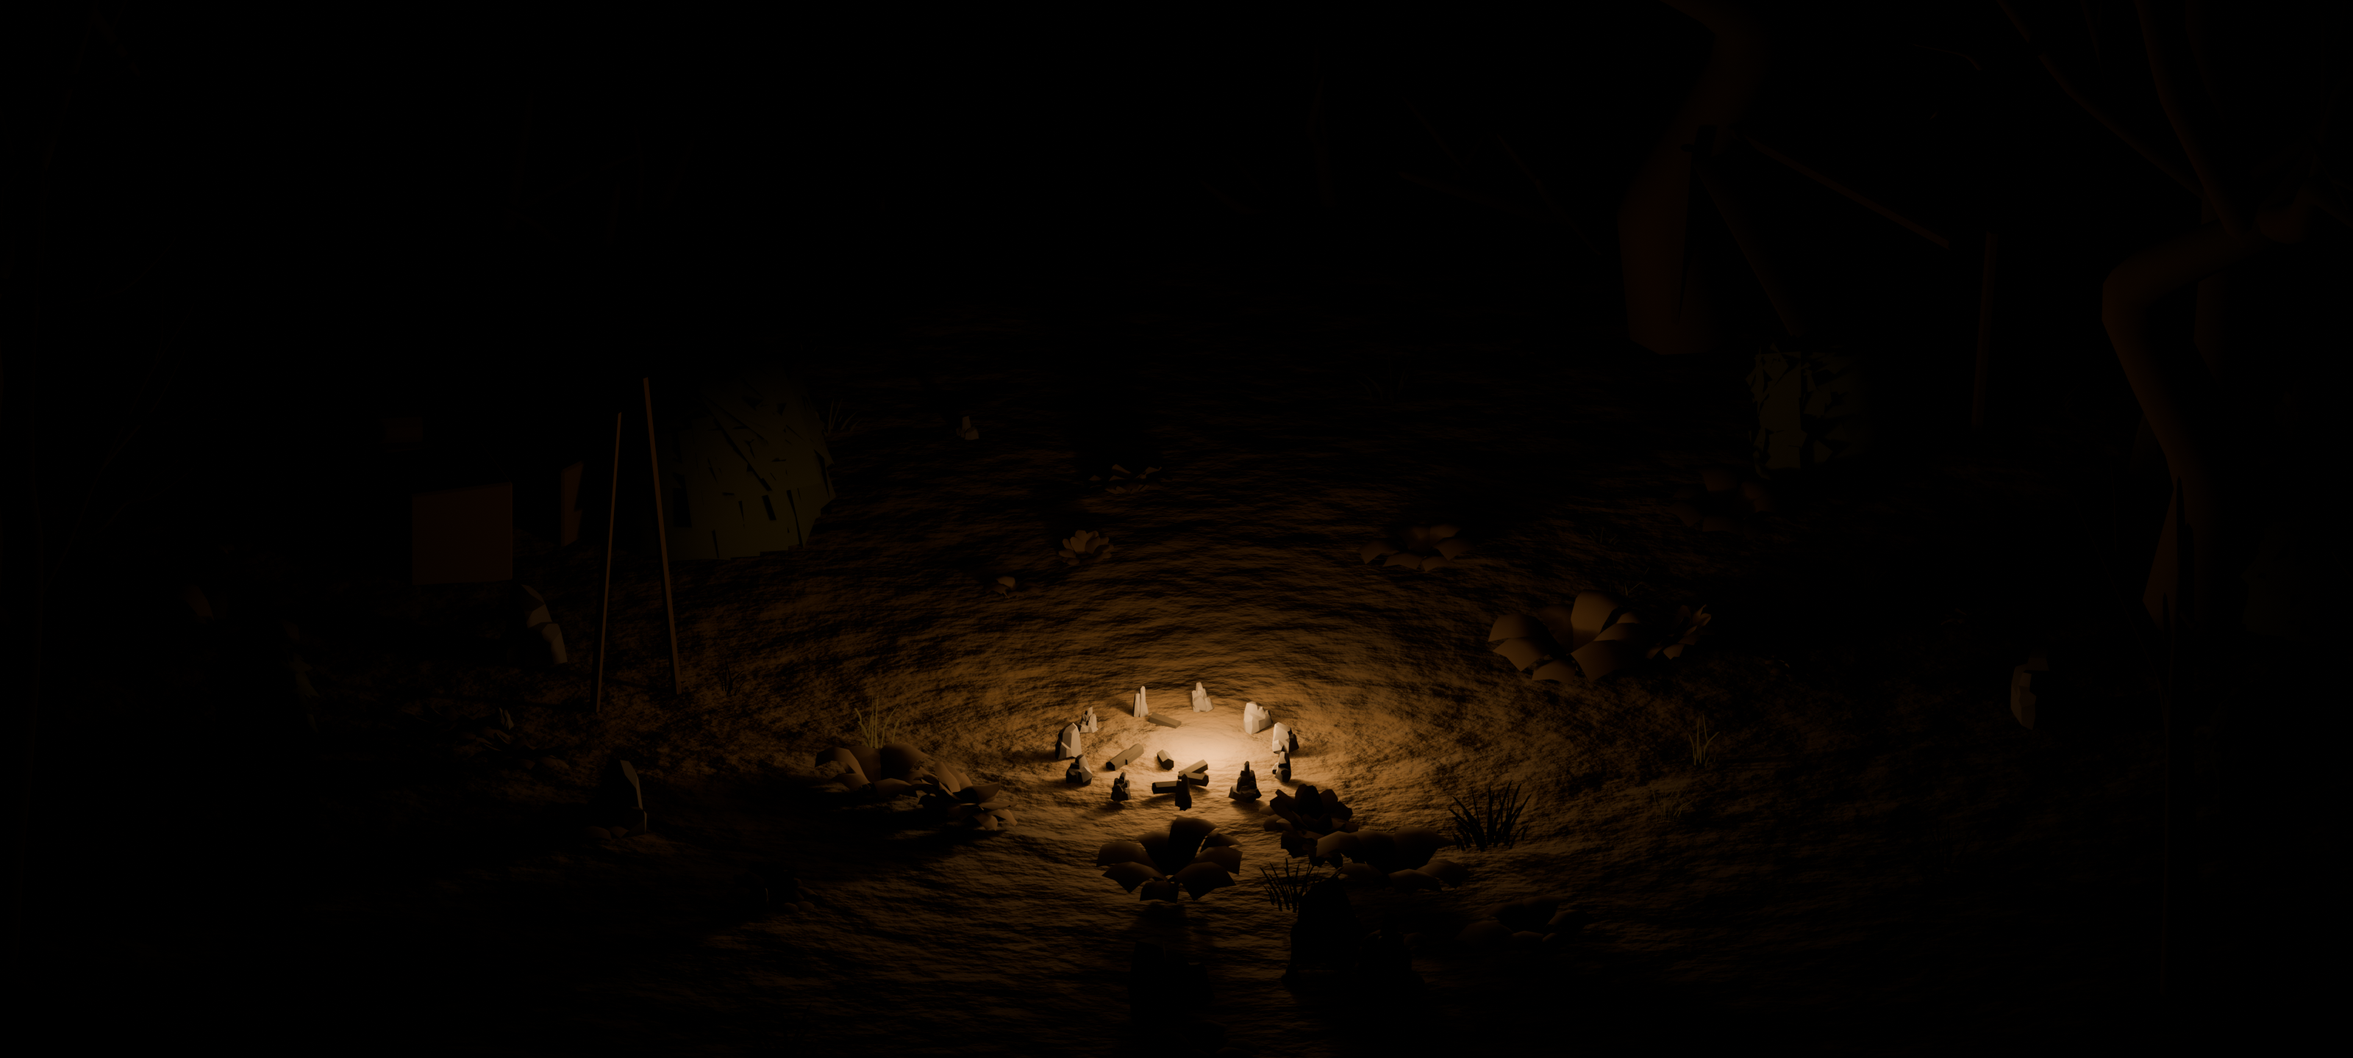
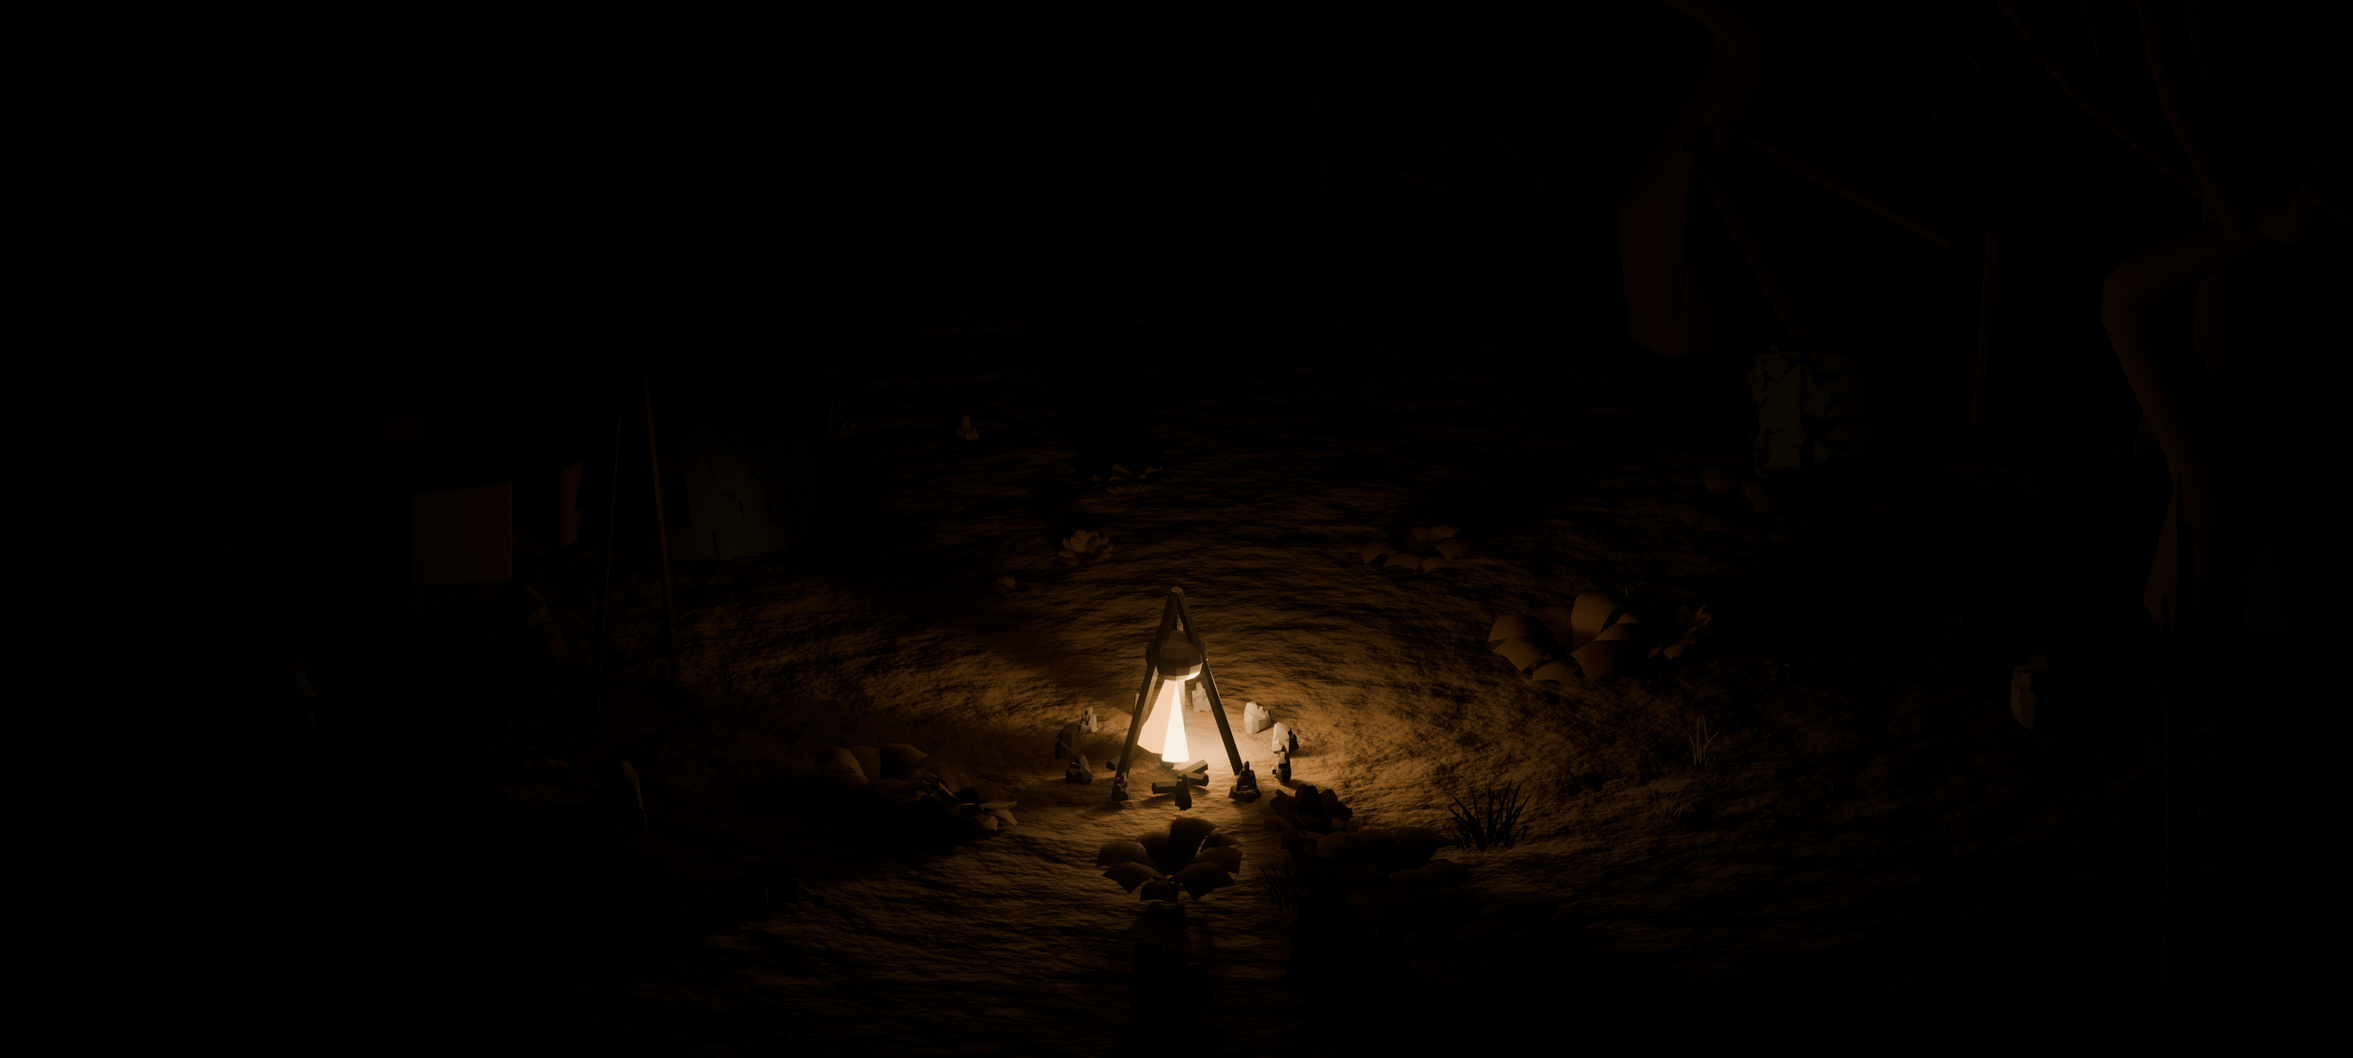
A moon over the camp, a fire in it, and the moonlight that was never drawn
**The bug first, because it explains the other two thirds of this commit.**
`lighter` adds alpha as well as colour, and the firelight plates are opaque
PNGs — so drawing them onto the canvas made the canvas opaque, black wherever
the fire does not reach, and the `background-image` underneath was hidden
completely. The camp has been lit by nothing but firelight since the plates
landed, with the sky, the crest and the whole treeline behind an opaque black
sheet. It looked exactly like a scene that was simply too dark, which is why it
was diagnosed twice as one.

The base plate is drawn onto the canvas now, and the plates added on top of it.
The CSS background stays as the first thing on screen while they decode; after
that the canvas is the picture. Stars move to *after* the set for the same
reason — laid down first they were painted over by the sky they belong to.

**The fire is rendered.** There is one flame per firelight plate and no two are
the same shape, so the cross-fade that already swings the light now plays the
fire itself: the tongues rise and fall because plate 2 is fading up while plate
1 fades down, on one clock, from one set of weights. The flame and the light it
casts cannot fall out of step, because they are the same render. `drawCampfire`
and `drawCookpot` are skipped for a camp that has plates — flat quadratic
tongues and a black outline over a lit set were the last of that mismatch — and
[…]

Changed region(s): [[0.3125, 0.5938, 0.5625, 0.875]]

diff --git a/js/ui.js b/js/ui.js
@@ -4,7 +4,7 @@ import { heroStats } from './entities.js';
 import { levelFor, levelAt, LEVELS } from './world.js';
 import { SKILLS, skillById, PERKS, MAX_SKILLS, iconOpts, TIER_BANDS } from './perks.js';
 import * as Atlas from './atlas.js';
-import { heroKit, drawActor, drawShadow, drawCampfire,
+import { heroKit, drawActor, drawCampfire,
          drawCookpot, kitFor } from './sprites.js';
 import { SLOTS, slotByKey, attrText, bandName, itemScore, itemArt } from './items.js';
 import * as Audio from './audio.js';
@@ -675,8 +675,20 @@ const FIRE_PLATES = 3;
 let firelight = null;
 
 function loadFirelight(src) {
-  firelight = { stem: src.slice(0, -4), imgs: [], scaled: null, key: '' };
+  firelight = { stem: src.slice(0, -4), base: null, imgs: [], scaled: null, key: '' };
   const mine = firelight;
+  // **The base plate is loaded here too, and drawn on the canvas rather than
+  // left to CSS.** It has to be: the plates are opaque PNGs and `lighter` adds
+  // *alpha* as well as colour, so drawing them over a transparent canvas makes
+  // the canvas opaque — black wherever the fire does not reach — and the
+  // background-image underneath is hidden completely. That bug shipped a camp
+  // lit by nothing but firelight, with the moon, the sky and the whole treeline
+  // sitting behind an opaque black sheet, and it looked exactly like a scene
+  // that was simply too dark. The CSS background stays as the first thing on
+  // screen while these decode; from then on the canvas is the picture.
+  const base = new Image();
+  base.onload = () => { if (firelight === mine) mine.base = base; };
+  base.src = src;
   for (let i = 0; i < FIRE_PLATES; i++) {
     const img = new Image();
     // A missing plate is not an error. A camp set may be a single image — every
@@ -697,8 +709,9 @@ function loadFirelight(src) {
 function scaleFirelight(W, H) {
   const key = `${Math.round(W)}x${Math.round(H)}`;
   if (firelight.key === key && firelight.scaled) return true;
+  if (!firelight.base) return false;
   if (firelight.imgs.length < FIRE_PLATES || firelight.imgs.some((i) => !i)) return false;
-  firelight.scaled = firelight.imgs.map((img) => {
+  const fit = (img) => {
     const c = document.createElement('canvas');
     c.width = Math.max(1, Math.round(W));
     c.height = Math.max(1, Math.round(H));
@@ -708,7 +721,9 @@ function scaleFirelight(W, H) {
     const dw = H * (img.naturalWidth / img.naturalHeight);
     c.getContext('2d').drawImage(img, (W - dw) / 2, 0, dw, H);
     return c;
-  });
+  };
+  firelight.scaled = firelight.imgs.map(fit);
+  firelight.scaledBase = fit(firelight.base);
   firelight.key = key;
   return true;
 }
@@ -734,6 +749,8 @@ function paintFirelight(ctx, W, H) {
   // eye against it at the fire's edge.
   const amp = 1.28 + 0.15 * Math.sin(campT * 7.3) + 0.07 * Math.sin(campT * 11.9);
   ctx.save();
+  // The set with the fire out, and then the fire added to it.
+  ctx.drawImage(firelight.scaledBase, 0, 0, W, H);
   ctx.globalCompositeOperation = 'lighter';
   firelight.scaled.forEach((c, i) => {
     ctx.globalAlpha = Math.max(0, (raw[i] / sum) * amp);
@@ -741,6 +758,59 @@ function paintFirelight(ctx, W, H) {
   });
   ctx.restore();
   return true;
+}
+
+/**
+ * A shadow thrown *by the fire*, rather than a disc under the boots.
+ *
+ * `drawShadow` puts a soft round blot beneath a figure, which is right on the
+ * road — the light there is ambient and comes from nowhere in particular. At
+ * the camp there is exactly one light and everybody can see where it is, so a
+ * round shadow is the one thing in the frame openly disagreeing with the set:
+ * the rendered stones throw theirs outward from the pit and the heroes standing
+ * between them did not.
+ *
+ * Three things make it read:
+ *
+ * - **It is solved on the ground, not on the screen.** The ground is seen at
+ *   24°, so screen-vertical is compressed; the direction away from the fire is
+ *   found with y un-squashed by `GROUND`, and the whole shadow is drawn inside
+ *   a matching squash. Done in screen space the shadows of the two heroes at
+ *   the sides point visibly wrong.
+ * - **It lengthens with distance and fades with it.** A point light throws a
+ *   longer, weaker shadow the further away the caster is, and the falloff is
+ *   what keeps the back row from looking pasted on.
+ * - **It moves on the fire's clock** — the same `campT` the plates are
+ *   cross-faded on, so the shadows breathe with the light that casts them
+ *   rather than on a rhythm of their own.
+ */
+const GROUND = 0.34;
+
+function campShadow(ctx, x, y, scale, fireX, fireY, W) {
+  const gx = x - fireX, gy = (y - fireY) / GROUND;
+  const dist = Math.hypot(gx, gy) || 1;
+  const r = 6 * scale;
+  // Long enough to read at the fire's edge, and bounded: past a couple of
+  // body-lengths it is a smear rather than a shadow.
+  const len = r * (1.5 + Math.min(2.6, dist / (W * 0.13)))
+    * (1 + 0.05 * Math.sin(campT * 7.3));
+  const fade = (0.62 / (1 + dist / (W * 0.26)))
+    * (0.9 + 0.12 * Math.sin(campT * 2.4));
+  ctx.save();
+  ctx.translate(x, y);
+  ctx.scale(1, GROUND);
+  ctx.rotate(Math.atan2(gy, gx));
+  // Darkest at the feet and gone at the tip — a shadow has a contact point, and
+  // an evenly filled ellipse is a puddle.
+  const g = ctx.createLinearGradient(0, 0, len, 0);
+  g.addColorStop(0, `rgba(6,4,3,${fade.toFixed(3)})`);
+  g.addColorStop(0.45, `rgba(6,4,3,${(fade * 0.5).toFixed(3)})`);
+  g.addColorStop(1, 'rgba(6,4,3,0)');
+  ctx.fillStyle = g;
+  ctx.beginPath();
+  ctx.ellipse(len * 0.42, 0, len * 0.58, r * 0.92, 0, 0, Math.PI * 2);
+  ctx.fill();
+  ctx.restore();
 }
 
 function dressCamp(area) {
@@ -1042,7 +1112,6 @@ function paintCamp(dt) {
 
   ctx.setTransform(dpr, 0, 0, dpr, 0, 0);
   ctx.clearRect(0, 0, W, H);
-  drawStars(ctx, W, H);
   const n = camp.slots.length;
   const fireX = W / 2, fireY = H * 0.72;
 
@@ -1061,6 +1130,10 @@ function paintCamp(dt) {
     ctx.fillStyle = glow;
     ctx.fillRect(0, 0, W, H);
   }
+  // **After the set, not before it.** A rendered camp draws its base plate onto
+  // this canvas, and the base is opaque — stars laid down first are painted over
+  // by the sky they are supposed to be in.
+  drawStars(ctx, W, H);
 
   // Everyone standing, back row first so the near ones overlap them.
   const order = camp.slots.map((s, i) => i)
@@ -1069,9 +1142,18 @@ function paintCamp(dt) {
   // sort reaches the near half, so the two who wrapped forward stand in front of
   // the flame and the two behind it are lit through it.
   let fireDown = false;
+  // **A rendered camp brings its own fire.** `bake-camp.py` puts a flame in
+  // every firelight plate and a different one in each, so the cross-fade that
+  // swings the light also plays the fire, and the iron tripod over it is
+  // modelled and lit from underneath. Drawing the canvas fire on top of that is
+  // two fires in one grate — flat quadratic tongues and a black outline sitting
+  // over a lit set, which is exactly the mismatch this whole pass removed
+  // everywhere else. The painted camps have neither and keep both.
   const dropFire = () => {
-    drawCampfire(ctx, fireX, fireY, campT, H / 190);
-    drawCookpot(ctx, fireX, fireY, Math.max(0.8, H / 560));
+    if (!firelight) {
+      drawCampfire(ctx, fireX, fireY, campT, H / 190);
+      drawCookpot(ctx, fireX, fireY, Math.max(0.8, H / 560));
+    }
     fireDown = true;
   };
   for (const i of order) {
@@ -1122,7 +1204,7 @@ function paintCamp(dt) {
       continue;
     }
 
-    drawShadow(ctx, x, y, 6 * scale * 0.5, 0.5);
+    campShadow(ctx, x, y, scale, fireX, fireY, W);
     // Everyone else stands back into the dark. Dimming the unselected is what
     // makes the selected one obvious at a glance — a highlight on its own has
     // to be found, a contrast does not.
@@ -1159,7 +1241,12 @@ function paintCamp(dt) {
       // different poses, so the hero changed size as the cycle crossed over.
       const ref = an ? an.fh : (sheet.cells[heroCell(s.tier || 1, false, cols, 0)] || {}).h;
       const k = ref ? (44 * 0.92 * scale) / ref : 1;
-      Atlas.drawSprite(ctx, sheet, idx, x, y, k, false);
+      // **Turned to face the fire.** The doll bakes facing screen-right —
+      // doll.html puts the camera on -X so the character's +Z is to the right —
+      // and every sheet in the game inherits that, so a figure standing on the
+      // fire's right has to be mirrored or he is looking out of the picture.
+      // A ring of people all facing the same way is a queue, not a camp.
+      Atlas.drawSprite(ctx, sheet, idx, x, y, k, x > fireX);
     }
     // **No stand-in.** This used to fall back to the vector kit while a sheet
     // decoded, which meant every visit to the camp opened on four simple

diff --git a/tools/bake-camp.py b/tools/bake-camp.py
@@ -343,6 +343,24 @@ def fire():
         put(f'Rock_{1 + i % 5}', math.cos(a) * r, math.sin(a) * r,
             height=RNG.uniform(0.15, 0.25), tilt=RNG.uniform(-0.2, 0.2))
 
+    # The tripod and its pot, over the flame. `drawCookpot` used to draw these
+    # in flat black on the canvas; a black outline over a lit set is the same
+    # mismatch the vector fire was. Rendered, the pot takes the firelight from
+    # underneath, which is the only interesting thing about a pot on a fire.
+    iron = flat('Iron', (0.030, 0.028, 0.026, 1.0), rough=0.62)
+    for dx, dy in ((-0.30, -0.24), (0.34, -0.16), (0.02, 0.36)):
+        bpy.ops.mesh.primitive_cylinder_add(radius=0.034, depth=1.06, vertices=6)
+        c = bpy.context.object
+        c.location = (dx * 0.5, dy * 0.5, 0.50)
+        c.rotation_euler = (math.atan2(math.hypot(dx, dy), 1.06) * 1.05,
+                            0, math.atan2(dy, dx) - math.pi / 2)
+        c.data.materials.append(iron)
+    bpy.ops.mesh.primitive_uv_sphere_add(radius=0.17, segments=14, ring_count=8)
+    pot = bpy.context.object
+    pot.location = (0, 0, 0.62)
+    pot.scale = (1, 1, 0.78)
+    pot.data.materials.append(iron)
+
     # Charcoal, and **no ash disc**. A flat disc inside the ring is 0.4m from a
     # 165W lamp pointing straight down it, so it takes ~70 W/m² square on: even
     # at an albedo of 0.013 it came back a pale plate, brighter than the dirt
@@ -678,9 +696,14 @@ def lights():
     Their energies are not the doll's. three.js directional intensity and
     Blender sun irradiance are different units, and this is a night scene lit by
     a fire: these are the moon behind the doll's key, not the doll's key."""
-    for pos, energy, colour in (((3, -3, 5), 1.50, (0.62, 0.70, 0.92)),
-                                ((-3, -2, 1), 0.45, (0.42, 0.50, 0.72)),
-                                ((-2, 2, 2), 0.90, (0.55, 0.62, 0.86))):
+    # **Raised from 1.50/0.45/0.90.** The set was tuned when the fire was baked
+    # into the same render; split into plates, the base is the whole of the
+    # picture wherever the fire does not reach, and at those energies two thirds
+    # of the frame was black rather than dark. Moonlight has to *show* the
+    # treeline, the crest and the shelter — the fire's job is the clearing.
+    for pos, energy, colour in (((3, -3, 5), 1.95, (0.60, 0.68, 0.92)),
+                                ((-3, -2, 1), 0.55, (0.40, 0.48, 0.72)),
+                                ((-2, 2, 2), 1.05, (0.54, 0.61, 0.86))):
         l = bpy.data.lights.new('l', 'SUN')
         l.energy, l.color, l.angle = energy * LIGHT, colour, math.radians(6)
         ob = bpy.data.objects.new('l', l)
@@ -735,8 +758,8 @@ def post():
     kinds = {e.identifier for e in gl.bl_rna.properties['glare_type'].enum_items}
     gl.glare_type = 'BLOOM' if 'BLOOM' in kinds else 'FOG_GLOW'
     gl.quality = 'HIGH'
-    gl.threshold = 1.0
-    gl.mix = -0.2
+    gl.threshold = 1.6
+    gl.mix = -0.45
 
     out = nt.nodes.new('CompositorNodeComposite')
     nt.links.new(rl.outputs['Image'], gl.inputs['Image'])
@@ -776,7 +799,94 @@ def vignette(path, strength):
     return float(fall.min())
 
 
-def bake(out, layers):
+def flames(layers):
+    """One flame per firelight plate, each a different shape.
+
+    **The flame is rendered now, and the canvas one is gone.** `drawCampfire`
+    drew logs and three quadratic tongues in flat colour over a lit set, which
+    is the same mismatch the vector cookpot was: an outline sitting on top of a
+    photograph. The reason it was kept through two passes is that a rendered
+    flame is *still* — and a fire that does not move is the worst thing that can
+    be on this screen.
+
+    The plates answer that. There is one flame per plate and no two are the same
+    shape, so the cross-fade that already swings the light also plays the fire:
+    the tongues rise and fall because plate 2 is fading up while plate 1 fades
+    down, on the same clock, from the same weights. No extra machinery, and the
+    flame and the light it casts can never fall out of step — they are the same
+    render.
+
+    Hidden in the base plate on purpose. The base is the fire *out*; if the
+    flame lived there it would burn at full strength through every flicker."""
+    em = bpy.data.materials.new('Flame')
+    em.use_nodes = True
+    nt = em.node_tree
+    e = nt.nodes.new('ShaderNodeEmission')
+    e.inputs['Color'].default_value = (1.0, 0.42, 0.10, 1.0)
+    e.inputs['Strength'].default_value = 2.1
+    nt.links.new(e.outputs['Emission'], nt.nodes['Material Output'].inputs['Surface'])
+    core = bpy.data.materials.new('FlameCore')
+    core.use_nodes = True
+    nt2 = core.node_tree
+    e2 = nt2.nodes.new('ShaderNodeEmission')
+    e2.inputs['Color'].default_value = (1.0, 0.74, 0.34, 1.0)
+    e2.inputs['Strength'].default_value = 3.8
+    nt2.links.new(e2.outputs['Emission'], nt2.nodes['Material Output'].inputs['Surface'])
+
+    sets = []
+    for i in range(layers):
+        group = []
+        for j in range(4):
+            h = RNG.uniform(0.30, 0.62)
+            r = RNG.uniform(0.07, 0.15)
+            bpy.ops.mesh.primitive_cone_add(radius1=r, depth=h, vertices=7)
+            c = bpy.context.object
+            off = RNG.uniform(0, math.tau)
+            d = RNG.uniform(0, 0.13)
+            c.location = (math.cos(off) * d, math.sin(off) * d, 0.08 + h / 2)
+            # Leaned and twisted, so no tongue is a cone standing to attention.
+            c.rotation_euler = (RNG.uniform(-0.22, 0.22), RNG.uniform(-0.22, 0.22),
+                                RNG.uniform(0, math.tau))
+            c.data.materials.append(core if j == 0 else em)
+            group.append(c)
+        sets.append(group)
+    return sets
+
+
+def moon():
+    """A moon, and the light that comes off it.
+
+    The suns are already named for it — `lights()` calls them the moon behind
+    the doll's key — but there was nothing in the sky to have thrown them, and a
+    night scene lit from a source the picture never shows is a night scene that
+    reads as underexposed rather than as night. A disc, low over the crest and
+    on the side the key comes from, is the whole fix: it costs one plane and it
+    tells the eye that the cold light on the treeline is *supposed* to be there.
+
+    Emissive and unlit, like the sky it sits on, and in the base plate only."""
+    m = bpy.data.materials.new('Moon')
+    m.use_nodes = True
+    nt = m.node_tree
+    e = nt.nodes.new('ShaderNodeEmission')
+    e.inputs['Color'].default_value = (0.86, 0.90, 1.0, 1.0)
+    e.inputs['Strength'].default_value = 1.45
+    nt.links.new(e.outputs['Emission'], nt.nodes['Material Output'].inputs['Surface'])
+    bpy.ops.mesh.primitive_circle_add(radius=0.40, vertices=48, fill_type='NGON')
+    d = bpy.context.object
+    d.name = 'moon'
+    # The key is at blender (3, -3, 5) — up and to the right — so the moon goes
+    # to that side, or the shadows in the frame point away from a light nobody
+    # can see. Not as far right as the key itself: the shelter and the two
+    # right-hand trunks own that corner of the sky, and a moon behind a tree is
+    # a moon that was never rendered.
+    d.rotation_euler = (math.radians(90 - PITCH), 0, 0)
+    d.location = (1.0, Y_MID + 38 * COS_P, -38 * SIN_P + 2.25)
+    d.data.materials.append(m)
+    EMISSIVE.append(d)
+    return d
+
+
+def bake(out, layers, torch):
     """The base plate, then one firelight plate per flame position.
 
     **This is the difference between a picture of a camp and a camp.** A single
@@ -808,6 +918,9 @@ def bake(out, layers):
 
     for ob in FIRE_LIGHTS:
         ob.data.energy = 0.0
+    for group in torch:
+        for ob in group:
+            ob.hide_render = True
     sc.render.filepath = out
     bpy.ops.render.render(write_still=True)
     darkest = vignette(out, float(ARGS['vignette']))
@@ -822,6 +935,9 @@ def bake(out, layers):
         # a quarter of the fire ring, which is enough to swing the stones'
         # shadows visibly and not enough to look like the fire is being carried.
         a = math.tau * i / layers
+        for j, group in enumerate(torch):
+            for ob in group:
+                ob.hide_render = (j != i)
         for ob in FIRE_LIGHTS:
             base = ob['home']
             ob.location = (base[0] + math.cos(a) * 0.16,
@@ -844,6 +960,8 @@ def main():
     scenery()
     camp_kit()
     fire()
+    torch = flames(int(ARGS['layers']))
+    moon()
     lights()
     cam = camera()
     post()
@@ -866,7 +984,7 @@ def main():
     sc.render.image_settings.file_format = 'PNG'
     sc.render.image_settings.color_mode = 'RGB'
     out = resolve(ARGS['out'])
-    darkest, written = bake(out, int(ARGS['layers']))
+    darkest, written = bake(out, int(ARGS['layers']), torch)
 
     print(f'camp: {len(written)} plates — base + {len(written) - 1} firelight')
     print(f'camp: vignette to {darkest:.2f} at the corners')
